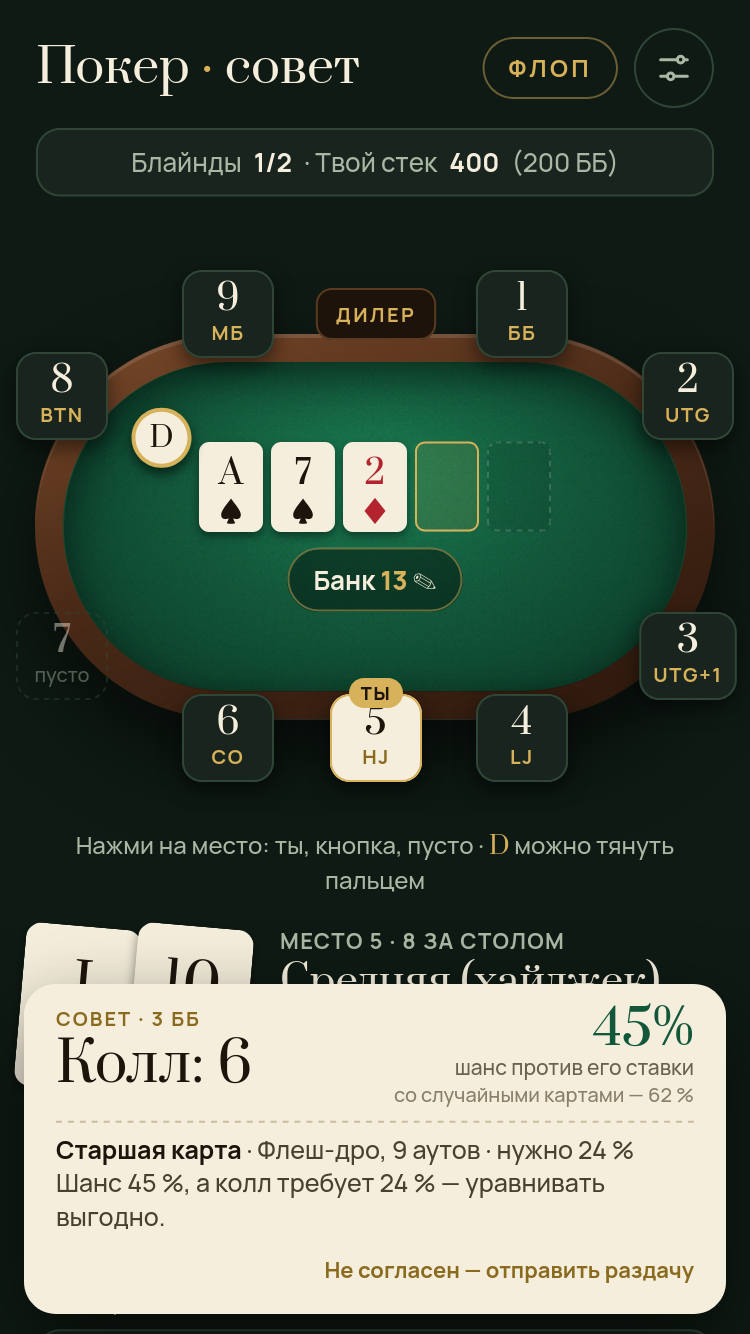
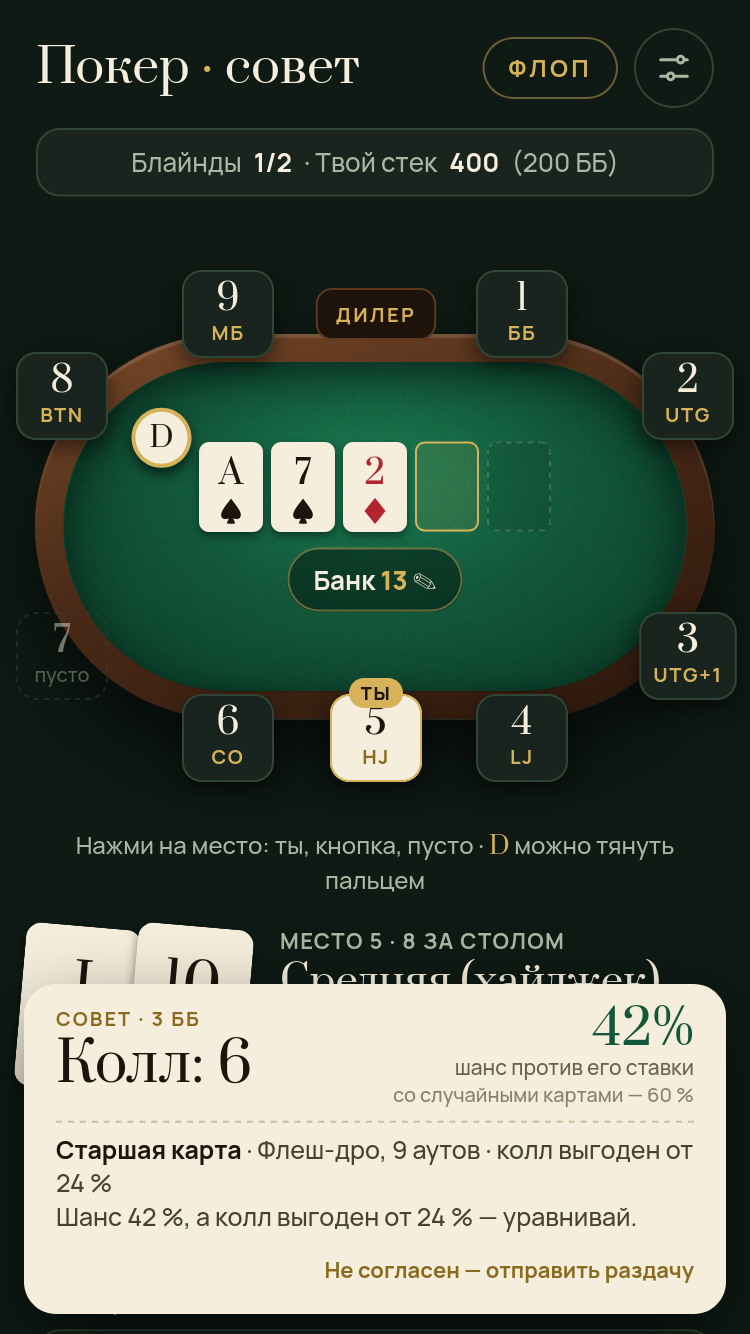
Советы после флопа настроены по солверу: 13 тёрнов, 71 тыс. решений (чек первым как уравнявший, запас к цене колла, строже рейзы)

diff --git a/src/postflop.js b/src/postflop.js
@@ -139,6 +139,8 @@ export function postflopAdvice({
   const strongDraw = draws.outs >= 8 && !river;
 
   let close = false; // спорно: решения почти равны
+  let vsValue; // шанс против рук «по делу» (считается, если есть ставка)
+  let needPct = null; // с какого шанса колл выгоден (цена + запас)
   const result = (act, amount, reason) => {
     // Больше, чем есть, не поставишь; если ставка — почти весь стек, честнее идти ва-банк.
     if ((act === 'bet' || act === 'raise') && amount >= stack * 0.5) { act = 'allin'; amount = stack; }
@@ -147,11 +149,36 @@ export function postflopAdvice({
       action: act,
       amount: amount ? chips(amount) : 0,
       text: ACTION_TEXT[act] + (amount ? `${act === 'raise' ? ' до' : ''} ${chips(amount)}` : ''),
-      reason, equity, randomEquity, handName, draws, spr, close, about,
+      reason, equity, randomEquity, handName, draws, spr, close, about, vsValue: typeof vsValue === 'number' ? vsValue : null, needPct,
     };
   };
 
+  // Кто был агрессором до флопа (по данным солвера от этого зависит, ставить первым или чекать).
+  const heroAggressor = Boolean(preflop && preflop.action === 'none' && preflop.hero && preflop.hero.key !== 'BB');
+  const heroCaller = Boolean(preflop && ((preflop.action === 'raise' && preflop.raiser) || (preflop.action === '3bet' && preflop.heroOpened)));
+  const headsUp = opponents === 1;
+
   if (!bet) {
+    // Пороги подобраны по 71 тыс. решений TexasSolver (13 тёрнов, баттон против ББ, 2026-10-07).
+    if (heroCaller && headsUp && !(spr < 1.5 && topPairPlus)) {
+      // Ты уравнивал повышение: первым почти всегда чек — солвер так делает в 70–98 % рук, даже с сильными.
+      close = equity >= 0.85;
+      return result('check', 0, equity >= 0.85
+        ? `Шанс ${percent} %, но первым против того, кто повышал до флопа, обычно чекают — он поставит сам, а ты повысишь или уравняешь. Ставка тоже не ошибка.`
+        : `Первым против того, кто повышал до флопа, чекают почти всегда (шанс ${percent} %) — пусть ставит он.`);
+    }
+    if (heroAggressor && headsUp && !(spr < 1.5 && topPairPlus)) {
+      // Повышал ты, тебе прочекали: ставка с сильными и часть блефов со слабыми, середина — чек.
+      if (equity >= 0.8) return result('bet', pot * 0.66, `Шанс ${percent} % — сильная рука, ставь 2/3 банка.`);
+      if (equity < 0.4) {
+        close = true;
+        return result('bet', pot * 0.5, draws.outs >= 4
+          ? `Слабая рука, но с дро (${draws.outs} аутов): ставка-блеф в полбанка — заберёшь банк или доедешь. Солвер так делает примерно в половине случаев.`
+          : `Слабая рука (шанс ${percent} %): тут солвер примерно в половине случаев блефует полбанка, в половине — чек.`);
+      }
+      close = equity >= 0.7;
+      return result('check', 0, `Шанс ${percent} % — средняя рука: проще чек и дойти до вскрытия дёшево.`);
+    }
     close = Math.abs(equity - valueNeed) < 0.04;
     if (equity >= valueNeed) {
       if (spr < 1.5 && topPairPlus) {
@@ -167,14 +194,14 @@ export function postflopAdvice({
 
   const price = Math.min(bet, stack);
   const potOdds = price / (pot + bet + price);
-  const need = Math.round(potOdds * 100);
   // Повышаем, только если впереди даже против рук, которыми ставят «по делу» (без блефов).
-  const vsValue = calcEquity({ hero, board, opponents, ranges: value ? [...value, ...ranges.slice(1)] : ranges,
+  vsValue = calcEquity({ hero, board, opponents, ranges: value ? [...value, ...ranges.slice(1)] : ranges,
     iterations: Math.round(iterations / 2), random }).equity;
   // На ривере повышение уравняют только руки получше — нужен запас побольше.
   // При глубоких стеках (SPR > 6) одной парой банк не раздуваем.
   const deepOnePair = spr > 6 && !bigHand;
-  if (vsValue >= Math.max(valueNeed, river ? 0.7 : 0.55) && price < stack && !deepOnePair) {
+  const raiseNeed = heroAggressor ? 0.9 : 0.8; // по солверу рейзят только очень сильным
+  if (vsValue >= Math.max(valueNeed, raiseNeed) && price < stack && !deepOnePair) {
     return result('raise', bet * 3, `Ты впереди даже против рук, которыми так ставят без блефа (${percentText(vsValue)} %), — повышай втрое.`);
   }
   // Маленький SPR и старшая пара или сильнее: сдаваться поздно — ва-банк.
@@ -185,7 +212,9 @@ export function postflopAdvice({
   // Дро. На флопе впереди ещё ставки — шанс реализуется не полностью (на тёрне снова платить).
   // Зато при глубоких стеках, когда доедешь, выиграешь ещё (неявные шансы) — если ставка не больше банка.
   const drawing = !madeHand && !river && price < stack;
-  const futureWin = drawing && spr >= 4 && bet <= pot ? 0.3 * Math.min(stack - price, pot + bet + price) : 0;
+  // Будущий выигрыш — только для настоящих дро (4+ аута), а не для рук «ни с чем».
+  const realDraw = drawing && draws.outs >= 4;
+  const futureWin = realDraw && spr >= 4 && bet <= pot ? 0.3 * Math.min(stack - price, pot + bet + price) : 0;
   const realized = drawing && board.length === 3 ? equity * 0.87 : equity;
   const drawOdds = price / (pot + bet + price + futureWin);
 
@@ -196,19 +225,25 @@ export function postflopAdvice({
       iterations: Math.round(iterations / 2), random, compareStyles: false });
     return alt.action;
   };
-  close = Math.abs(realized - drawOdds) < 0.04;
-  if (realized >= drawOdds) {
+  // Запас к цене колла (подобран по солверу): против обычной ставки 6 %, если ставит первым тот,
+  // кто до флопа только уравнивал, — 10 %; против ва-банка 3 % и 25 % соответственно.
+  const allInBet = bet >= stack;
+  const margin = heroAggressor ? (allInBet ? 0.25 : 0.10) : (allInBet ? 0.03 : 0.06);
+  close = Math.abs(realized - (drawOdds + margin)) < 0.04;
+  // С какого шанса колл выгоден (цена колла + запас) — это и показываем игроку.
+  needPct = Math.round((drawOdds + margin) * 100);
+  if (realized >= drawOdds + margin) {
     const rare = flip('rare');
     const note = rare === 'fold' ? ' Но если он почти не блефует — пас.' : '';
     const implied = futureWin && realized < potOdds
       ? ` Напрямую колл чуть дороже шанса, но стеки глубокие: доедешь — выиграешь ещё.` : '';
     const deep = deepOnePair && vsValue >= 0.55 ? ' Стеки глубокие — одной парой банк не раздувай, просто уравнивай.' : '';
-    return result('call', price, `Шанс ${percent} %, а колл требует ${need} % — уравнивать выгодно.${implied}${deep}${note}`);
+    return result('call', price, `Шанс ${percent} %, а колл выгоден от ${needPct} % — уравнивай.${implied}${deep}${note}`);
   }
-  if (realized < equity && equity >= potOdds) {
-    return result('fold', 0, `Шанс ${percent} %, но это до ривера, а на тёрне снова придётся платить: дро стоит около ${percentText(realized)} %, колл требует ${need} %.`);
+  if (realized < equity && equity >= potOdds + margin) {
+    return result('fold', 0, `Шанс ${percent} %, но это до ривера, а на тёрне снова придётся платить: дро стоит около ${percentText(realized)} %, а колл выгоден от ${needPct} %.`);
   }
   const often = flip('often');
   const note = often === 'call' || often === 'allin' ? ' Но если он часто блефует — колл.' : '';
-  return result('fold', 0, `Шанс ${percent} %, а колл требует ${need} % — в долгую это убыточно.${note}`);
+  return result('fold', 0, `Шанс ${percent} %, а колл выгоден только от ${needPct} % — пас.${note}`);
 }

diff --git a/app.js b/app.js
@@ -6,7 +6,7 @@ import { handClass } from './src/hands.js';
 import { GEOMETRY, DEALER_XY, SEAT_XY, SEAT_COUNT, activeSeats, seatPosition, nextActive } from './src/table.js';
 
 // Номер версии — поднимать при каждом обновлении вместе с CACHE в sw.js.
-const APP_VERSION = 12;
+const APP_VERSION = 13;
 const $ = (id) => document.getElementById(id);
 const RANK_LABEL = { 10: '10', 11: 'J', 12: 'Q', 13: 'K', 14: 'A' };
 const rankLabel = (r) => RANK_LABEL[r] || String(r);
@@ -471,8 +471,7 @@ function renderTicket() {
       const diff = Math.abs(advice.randomEquity - advice.equity) >= 0.05;
       gaugeNote = (state.toCall ? 'шанс против его ставки' : 'шанс выиграть')
         + (diff ? `<br><small>со случайными картами — ${percentText(advice.randomEquity)} %</small>` : '');
-      const price = Math.min(state.toCall, stackOrInf());
-      const need = state.toCall ? ` · нужно ${Math.round((price / (state.pot + state.toCall + price)) * 100)} %` : '';
+      const need = advice.needPct != null ? ` · колл выгоден от ${advice.needPct} %` : '';
       const draws = advice.draws.names.length ? ` · ${advice.draws.names.join(', ')}, ${advice.draws.outs} аутов` : '';
       lines = [`<b>${advice.handName}</b>${draws}${need}`, advice.reason];
       if (advice.about) lines.push(`<span class="about">Шанс посчитан ${advice.about}.</span>`);

diff --git a/sw.js b/sw.js
@@ -1,6 +1,6 @@
 // Офлайн-режим: сначала пробуем интернет (всегда свежая версия),
 // без связи — берём сохранённую копию из телефона.
-const CACHE = 'poker-v12';
+const CACHE = 'poker-v13';
 const FILES = [
   './', 'index.html', 'app.css', 'app.js', 'manifest.webmanifest',
   'src/cards.js', 'src/evaluator.js', 'src/equity.js', 'src/hands.js', 'src/handRanks.js',

diff --git a/data-build/solver/fit.py b/data-build/solver/fit.py
@@ -1,0 +1,52 @@
+"""Подбор порогов советов после флопа по решениям солвера (dataset.jsonl).
+Оценка правила = средняя доля, которую солвер отдаёт действию приложения (1.0 — полностью как солвер).
+Перебираем пороги отдельно для каждой точки решения и печатаем лучшие."""
+import json, sys, itertools
+rows = [json.loads(l) for l in open(sys.argv[1])]
+STACK, POT = 975, 55
+
+def score(rs, decide):
+    return sum(r['mix'].get(decide(r), 0) for r in rs) / max(1, len(rs))
+
+def current(r):
+    a = r['app']
+    if a == 'allin': return 'call' if r['bet'] >= STACK else ('raise' if r['bet'] else 'bet')
+    return a
+
+out = {}
+# A: ББ ходит первым против повысившего
+A = [r for r in rows if r['kind'] == 'A']
+best = max(((score(A, lambda r, t=t: 'bet' if r['eq'] >= t else 'check'), t) for t in [0.6, 0.7, 0.8, 0.9, 0.95, 1.01]))
+print(f"A сейчас {score(A, current):.3f} → лучше всего: ставка при шансе ≥ {best[1]} (оценка {best[0]:.3f})")
+
+# B: баттон после чека — ставка с сильными, блеф со слабыми (с дро или без), чек — середина
+B = [r for r in rows if r['kind'] == 'B']
+cands = []
+for hi, lo, outs in itertools.product([0.6, 0.7, 0.75, 0.8, 0.85, 0.9], [0.0, 0.2, 0.3, 0.35, 0.4], [0, 4, 8, 99]):
+    def d(r, hi=hi, lo=lo, outs=outs):
+        if r['eq'] >= hi: return 'bet'
+        if r['eq'] < lo and (r['outs'] >= outs or outs == 0): return 'bet'
+        return 'check'
+    cands.append((score(B, d), hi, lo, outs))
+s, hi, lo, outs = max(cands)
+print(f"B сейчас {score(B, current):.3f} → ставка при шансе ≥ {hi}; блеф при шансе < {lo} (если аутов ≥ {outs}) (оценка {s:.3f})")
+
+# C/D: против ставки — колл, если шанс ≥ цена колла + запас; рейз, если против рук «по делу» ≥ R
+for kind in 'CD':
+    K = [r for r in rows if r['kind'] == kind]
+    normal = [r for r in K if r['bet'] < STACK]
+    allin = [r for r in K if r['bet'] >= STACK]
+    cands = []
+    for m, R in itertools.product([0, 0.03, 0.06, 0.08, 0.10, 0.12, 0.15], [0.55, 0.6, 0.65, 0.7, 0.75, 0.8, 0.9, 1.1]):
+        def d(r, m=m, R=R):
+            price = r['bet'] / (POT + 2 * r['bet'])
+            if r['vv'] is not None and r['vv'] >= R: return 'raise'
+            return 'call' if r['eq'] >= price + m else 'fold'
+        cands.append((score(normal, d), m, R))
+    s, m, R = max(cands)
+    print(f"{kind} обычные ставки: сейчас {score(normal, current):.3f} → колл при шансе ≥ цена + {m}, рейз при «по делу» ≥ {R} (оценка {s:.3f})")
+    ca = []
+    for m in [0, 0.03, 0.06, 0.1, 0.15, 0.2, 0.25, 0.3]:
+        ca.append((score(allin, lambda r, m=m: 'call' if r['eq'] >= r['bet'] / (POT + 2 * r['bet']) + m else 'fold'), m))
+    s, m = max(ca)
+    print(f"{kind} против ва-банка: сейчас {score(allin, current):.3f} → колл при шансе ≥ цена + {m} (оценка {s:.3f})")

diff --git a/data-build/solver/analyze.py b/data-build/solver/analyze.py
@@ -1,0 +1,38 @@
+"""Разбор dataset.jsonl: как солвер действует в зависимости от того, что видит приложение.
+Печатает по каждой точке решения таблицу «шанс приложения (корзины по 10 %) → доли действий солвера»
+и долю совпадений текущего приложения с главным действием солвера."""
+import json, sys
+from collections import defaultdict
+
+rows = [json.loads(l) for l in open(sys.argv[1])]
+KINDS = {'A': 'ББ первым (чек/ставка)', 'B': 'баттон после чека (ставка/чек)',
+         'C': 'ББ против ставки баттона', 'D': 'баттон против ставки ББ'}
+
+def top(mix): return max(mix, key=mix.get)
+
+def app_group(r):
+    a = r['app']
+    if a == 'allin': return 'call' if r['bet'] >= 975 else ('raise' if r['bet'] else 'bet')
+    return a
+
+for kind, title in KINDS.items():
+    rs = [r for r in rows if r['kind'] == kind]
+    if not rs: continue
+    match = sum(app_group(r) == top(r['mix']) for r in rs) / len(rs)
+    print(f'\n== {kind}: {title} — рук {len(rs)}, приложение совпадает с солвером: {match:.0%}')
+    sizes = sorted({r['ratio'] for r in rs}) if kind in 'CD' else [None]
+    for size in sizes:
+        sub = [r for r in rs if size is None or r['ratio'] == size]
+        if size is not None: print(f'  ставка {size} банка')
+        buckets = defaultdict(list)
+        for r in sub: buckets[min(9, int(r['eq'] * 10))].append(r)
+        for b in sorted(buckets):
+            g = buckets[b]
+            acts = defaultdict(float)
+            for r in g:
+                for k, v in r['mix'].items(): acts[k] += v / len(g)
+            app = defaultdict(int)
+            for r in g: app[app_group(r)] += 1
+            print(f'    шанс {b*10:2d}–{b*10+9:2d} %: n={len(g):4d} | солвер ' +
+                  ', '.join(f'{k} {v:.0%}' for k, v in sorted(acts.items(), key=lambda x: -x[1])) +
+                  ' | приложение ' + ', '.join(f'{k} {v/len(g):.0%}' for k, v in sorted(app.items(), key=lambda x: -x[1])))

diff --git a/docs/proverka-sovetov.md b/docs/proverka-sovetov.md
@@ -95,22 +95,22 @@
 | 82 | QQ на столе A-K, ставка | Qs Qd · Ah Kc 4d | 13 / 9 | **Колл 9** (если он почти не блефует — пас) | 38 % (71 %) | пас или колл | ✅ |
 | 83 | Ривер: натсовый флеш, ставка | Ah 5h · Kh 9h 2c 7h Js | 40 / 20 | **Рейз до 60** | 100 % (100 %) | рейз или ва-банк | ✅ |
 | 84 | Ривер: младшая пара, огромная ставка | 3s 3d · Kh 9c 7d 5s 2h | 40 / 80 | **Пас** | 15 % (47 %) | пас | ✅ |
-| 85 | Ривер: старшая пара, маленькая ставка | Kd Qc · Kh 9c 7d 5s 2h | 40 / 10 | **Рейз до 30** | 79 % (87 %) | колл или рейз | ✅ |
-| 86 | Ривер: AA на K-K-8-4-2, ставка в 4 банка (твоя) | Ac Ah · 4d Kc Kd 8s 2c | 250 / 1000 | **Пас** | 30 % (80 %) | пас | ✅ |
+| 85 | Ривер: старшая пара, маленькая ставка | Kd Qc · Kh 9c 7d 5s 2h | 40 / 10 | **Колл 10** | 79 % (87 %) | колл или рейз | ✅ |
+| 86 | Ривер: AA на K-K-8-4-2, ставка в 4 банка (твоя) | Ac Ah · 4d Kc Kd 8s 2c | 250 / 1000 | **Пас** | 30 % (82 %) | пас | ✅ |
 | 87 | Ривер: AA на K-K-8-4-2, ставка в банк | Ac Ah · 4d Kc Kd 8s 2c | 1000 / 1000 | **Колл 1000** | 66 % (90 %) | колл | ✅ |
-| 88 | Ривер: AA на K-K-8-4-2, ставка в полбанка | Ac Ah · 4d Kc Kd 8s 2c | 1000 / 500 | **Колл 500** | 72 % (90 %) | колл | ✅ |
-| 89 | Ривер: QQ на A-8-8-4-2, один (твоя) — зависит от блефа | Qh Qd · 4d Ad 8c 8s 2c | 750 / 500 | **Колл 500** (если он почти не блефует — пас) | 30 % (76 %) | пас или колл | ✅ |
-| 90 | Тёрн: две пары, ставка, трое в игре | Ks 9s · Kh 9c 4d 2s | 30 / 20 | **Рейз до 60** | 85 % (89 %) | рейз или колл | ✅ |
-| 91 | Старшая пара, хороший кикер, трое, чек | As Qd · Qh 8c 3d | 12 / — | **Ставка 7.9** | 62 % (66 %) | ставка | ✅ |
+| 88 | Ривер: AA на K-K-8-4-2, ставка в полбанка | Ac Ah · 4d Kc Kd 8s 2c | 1000 / 500 | **Колл 500** | 73 % (91 %) | колл | ✅ |
+| 89 | Ривер: QQ на A-8-8-4-2, один (твоя) — зависит от блефа | Qh Qd · 4d Ad 8c 8s 2c | 750 / 500 | **Пас** (если он часто блефует — колл) | 30 % (76 %) | пас или колл | ✅ |
+| 90 | Тёрн: две пары, ставка, трое в игре | Ks 9s · Kh 9c 4d 2s | 30 / 20 | **Рейз до 60** | 85 % (88 %) | рейз или колл | ✅ |
+| 91 | Старшая пара, хороший кикер, трое, чек | As Qd · Qh 8c 3d | 12 / — | **Ставка 7.9** | 61 % (66 %) | ставка | ✅ |
 | 92 | Короткий стек: старшая пара, ставка | As Kd · Kh 8c 3d | 40 / 20 | **Ва-банк 30** | 84 % (90 %) | ва-банк | ✅ |
 | 93 | Готовый стрит, тебе чек | Jd Ts · 9h 8c 7d | 13 / — | **Ставка 8.6** | 93 % (95 %) | ставка | ✅ |
 | 94 | Оверпара, стек полтора банка, ставка | Qs Qd · 8h 5c 2d | 60 / 30 | **Ва-банк 90** | 76 % (80 %) | ва-банк | ✅ |
-| 95 | Старшая пара, стек 10 банков, ставка в банк | As Kd · Kh 8c 3d | 20 / 20 | **Колл 20** | 81 % (90 %) | колл | ✅ |
+| 95 | Старшая пара, стек 10 банков, ставка в банк | As Kd · Kh 8c 3d | 20 / 20 | **Колл 20** | 81 % (89 %) | колл | ✅ |
 | 96 | Сет, глубокие стеки, ставка | 8s 8d · Kh 8c 3d | 20 / 15 | **Рейз до 45** | 93 % (98 %) | рейз | ✅ |
 | 97 | Две пары, глубокие стеки, ставка | Ks 9s · Kh 9c 4d 2s | 40 / 25 | **Рейз до 75** | 92 % (96 %) | рейз | ✅ |
-| 98 | Флеш-дро на тёрне, полбанка, глубокие стеки | Js Ts · As 7s 2d 4c | 40 / 20 | **Колл 20** | 28 % (43 %) | колл | ✅ |
-| 99 | Флеш-дро на тёрне, ставка в банк, стек маленький | Js Ts · As 7s 2d 4c | 40 / 40 | **Пас** | 26 % (44 %) | пас | ✅ |
-| 100 | Флеш-дро на тёрне, ставка в банк, глубокие стеки | Js Ts · As 7s 2d 4c | 40 / 40 | **Пас** (если он часто блефует — колл) | 26 % (44 %) | колл или пас | ✅ |
-| 101 | Старшая пара, тебе чек, стек меньше банка | Kd 4d · Kh 9c 3s | 60 / — | **Ва-банк 50** | 71 % (83 %) | ва-банк | ✅ |
+| 98 | Флеш-дро на тёрне, полбанка, глубокие стеки | Js Ts · As 7s 2d 4c | 40 / 20 | **Колл 20** (если он почти не блефует — пас) | 28 % (43 %) | колл | ✅ |
+| 99 | Флеш-дро на тёрне, ставка в банк, стек маленький | Js Ts · As 7s 2d 4c | 40 / 40 | **Пас** | 26 % (43 %) | пас | ✅ |
+| 100 | Флеш-дро на тёрне, ставка в банк, глубокие стеки | Js Ts · As 7s 2d 4c | 40 / 40 | **Пас** | 25 % (44 %) | колл или пас | ✅ |
+| 101 | Старшая пара, тебе чек, стек меньше банка | Kd 4d · Kh 9c 3s | 60 / — | **Ва-банк 50** | 70 % (83 %) | ва-банк | ✅ |
 
 Не совпало с ожиданием: 0 из 101

diff --git a/CLAUDE.md b/CLAUDE.md
@@ -134,3 +134,20 @@
   preflopRanges): повысил X — руки открытия X (ранние места 9-max — таблица 9-max из src/openTables.js),
   открыл ты — руки, с которыми ББ уравнивает, 3-бет против тебя — руки 3-бета. Веса рук (частоты) учитываются.
   Не отмечено, кто повысил, или лимпы — старая грубая модель «лучшие N %». В совете строка «Шанс посчитан против …».
+
+## Солвер на сервере (TexasSolver, 2026-10-06)
+
+- Исходники консольной версии (ветка console, просмотрены: сети и запуска программ нет) собраны в
+  /root/poker-solver/src-texassolver/build/console_solver; для сборки поставлены build-essential и cmake (apt).
+- ВНИМАНИЕ: расчёт флопа с полными диапазонами занял 4,9 ГБ и вызвал нехватку памяти на сервере (система
+  убила только солвер, сайт и база живы, но минуту сервер был перегружен). Запускать ТОЛЬКО через
+  /root/poker-solver/run.sh (потолок 1,2 ГБ, полъядра, nice 19). Считать тёрн (4 карты), не флоп.
+- data-build/solver/make_input.mjs — задание (BTN открыл, ББ уравнял, диапазоны из preflopData),
+  compare.mjs — сравнение советов приложения с солвером по точкам решения.
+- 2026-10-07: посчитано 13 тёрнов (баттон открыл, ББ уравнял; ~4,5 мин каждый на полъядра, без перегрузок),
+  /root/poker-solver/dataset.jsonl — 71 тыс. решений «что видит приложение → что выбрал солвер»,
+  data-build/solver/analyze.py (разбор по корзинам шанса), fit.py (подбор порогов). Встроено в postflop.js:
+  уравнял до флопа (heroCaller) — первым чек; повышал сам (heroAggressor), тебе прочекали — ставка от 80 %,
+  блеф ниже 40 % (спорно), середина — чек; колл при шансе ≥ цена + 6 % (если ставит первым уравнявший — 10 %;
+  против ва-банка 3 % / 25 %); рейз только при «по делу» ≥ 80 % (90 %). Итог на 4 досках: 0,75 → 0,81.
+  Это настроено на баттон против ББ, один соперник; для мультивея и других пар мест — прежние правила.
